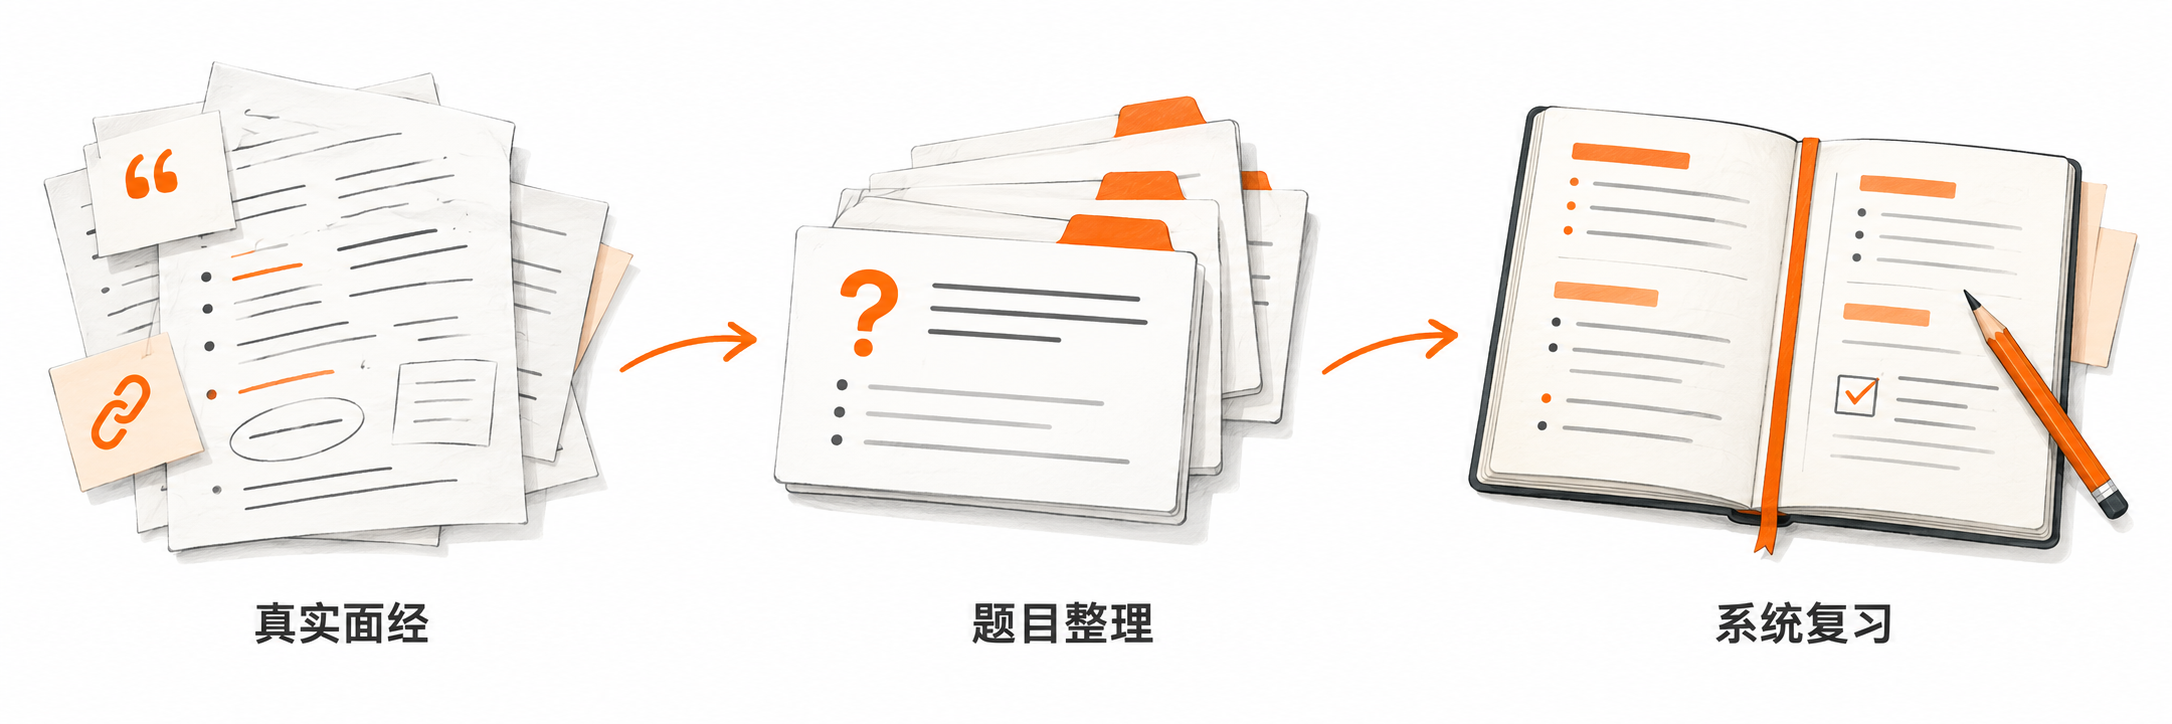
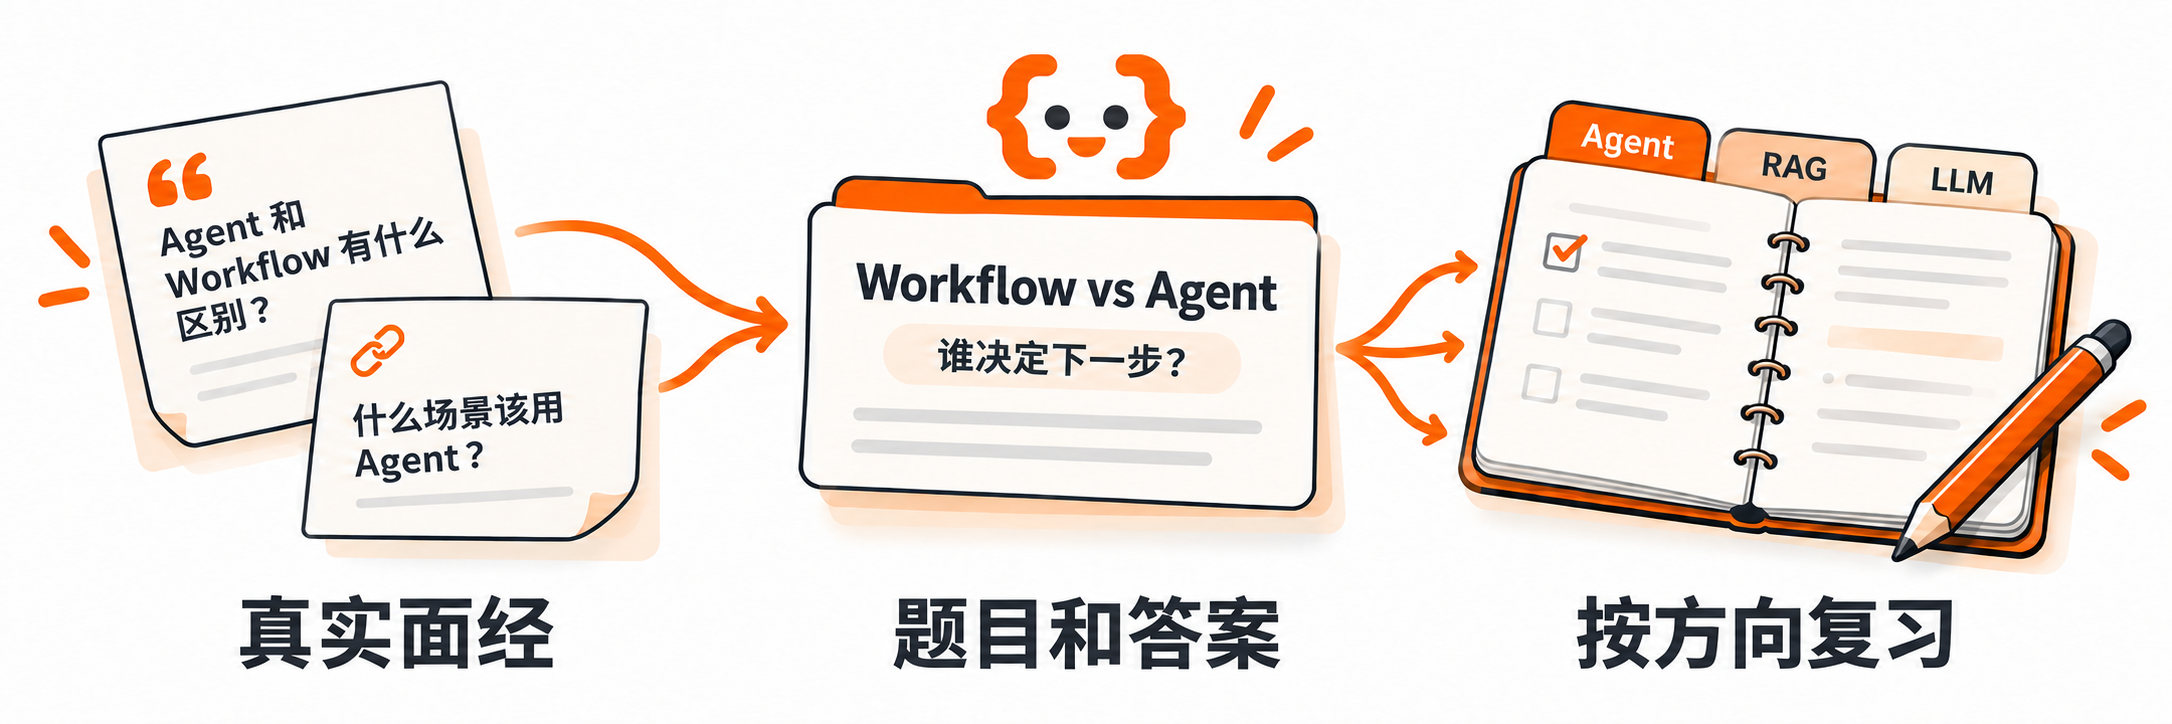
docs(readme): 突出真实面经亮点并更新项目插图
围绕真实提问与复习用途完善开头介绍，补充准备入口和配套教程。

为目录标题增加图标与稳定锚点，更新概念插图并移除旧截图。

diff --git a/README.md b/README.md
@@ -1,84 +1,76 @@
 <div align="center">
 
-# 面栈 MianStack
+# 🎯 面栈 MianStack｜免费开源的 AI 面试题库与真实面经
 
 ### 面试之前，先来面栈
 
-**你的 AI Agents 面试宝藏库**
+**你的 AI Agents 面试宝藏库：真面经、真问题、成体系，帮你把零散知识变成面试时说得清的答案。**
 
-真面经、真问题、成体系，帮你把零散知识变成面试时说得清的答案。
+聚焦 **AI Agent、LLM 应用、RAG、模型训练与 AI 工程**。
 
 <p>
   <a href="INDEX.md"><img alt="4,000+ 道面试题" src="https://img.shields.io/badge/面试题-4%2C000%2B-FF6000?style=flat-square"></a>
   <a href="indexes/interviews.md"><img alt="600+ 篇真实面经" src="https://img.shields.io/badge/真实面经-600%2B-FF6000?style=flat-square"></a>
+  <a href="INDEX.md#current-content"><img alt="9,600+ 次真实提问" src="https://img.shields.io/badge/真实提问-9%2C600%2B-FF6000?style=flat-square"></a>
   <a href="https://mianstack.com/company/"><img alt="150+ 家公司" src="https://img.shields.io/badge/公司-150%2B-FF6000?style=flat-square"></a>
-  <a href="#知识目录"><img alt="8 个知识方向" src="https://img.shields.io/badge/知识方向-8-2D333B?style=flat-square"></a>
+  <a href="#knowledge-directions"><img alt="8 个知识方向" src="https://img.shields.io/badge/知识方向-8-2D333B?style=flat-square"></a>
 </p>
 
-**[开始复习](https://mianstack.com/must-review/)** · [按公司找面经](https://mianstack.com/company/) · [浏览题库](INDEX.md) · [参与贡献](#参与贡献)
+**[开始复习](https://mianstack.com/must-review/)** · [按公司找面经](https://mianstack.com/company/) · [浏览题库](INDEX.md) · [简历与面试准备](https://mianstack.com/prepare/) · [配套实战教程](#project-learning) · [一起完善面栈](#contributing)
 
 </div>
 
-[![面栈：看真实面经、读面试题和参考答案、按知识方向复习](assets/readme/mianstack-overview-v2.png)](https://mianstack.com/)
+准备 AI 面试，最关心的就是：**目标岗位会问什么、先复习哪些题、项目被追问时怎么答。** 面栈从公开面经中整理真实提问，把分散在不同公司、岗位和轮次里的问题放进知识目录，让你有重点地复习。
 
-面栈是一个面向求职者的开源面试题库和答案库，重点覆盖 **AI Agent、LLM 应用、RAG、模型训练与 AI 工程**，同时保留这些岗位经常考查的软件工程、算法和项目问题。
+在 [mianstack.com](https://mianstack.com/)，你可以查真实面经、读题目和参考答案、标记复习进度，也可以准备简历、自我介绍和项目表达。**网站免费使用，题库开放阅读，源码和文档也在这里。**
 
-你可以在 [mianstack.com](https://mianstack.com/) 找题、筛选面经、记下复习情况，也可以直接在 GitHub 阅读题目和补充答案。具体有多少题、多少篇面经，见[题库总索引](INDEX.md)。
+[![面栈：看真实面经、读面试题和参考答案、按知识方向复习](assets/readme/mianstack-overview.png)](https://mianstack.com/)
 
-## 从这里开始
+## 🚀 从这里开始
 
-- **面试快到了**：[先看「面前必看」](https://mianstack.com/must-review/)，把答不好的题标出来，集中练习。
-- **准备某家公司**：[按公司找面经](https://mianstack.com/company/)，选你要投的岗位，看看一面、二面都问过什么。
-- **想补技术知识**：打开[知识目录](#知识目录)，按 Agent、RAG、模型训练等方向找题，复习自己不熟悉的部分。
+- **面试快到了**：[先过「面前必看」](https://mianstack.com/must-review/)，把各方向的核心题练一遍。
+- **想先练收录最多的题**：[打开网站题库](https://mianstack.com/question/)，默认按关联面经数量排序，先看反复出现在已收录面经中的问题。
+- **已经有目标公司**：[按公司找面经](https://mianstack.com/company/)，筛选岗位和面试轮次，看看同类岗位实际问过什么。
+- **想补某一块知识**：打开[知识目录](#knowledge-directions)，找到对应专题，集中补自己不熟悉的内容。
+- **简历和开场还没准备好**：[梳理简历与经历](https://mianstack.com/prepare/resume-and-experience/)，再[练习自我介绍](https://mianstack.com/prepare/self-introduction/)。
 - **继续上次复习**：[打开「我的复习」](https://mianstack.com/study/)，接着上次看，或者回看标为「待复习」的题。
 
-## 怎么用面栈准备面试
+## ✨ 面栈有什么不同
 
-### 按公司和岗位找面经
+- 🧾 **从真实面经整理题目，不靠 AI 凑题**：题库以牛客、小红书等公开面经中的真实提问为基础，保留面试官原本怎么问，再按知识点整理成题目；也补充有明确出处的公开题集。你能回到原始材料核对，知道问题从哪里来、是在什么情况下问的。
 
-公司页面把已收录的面经和题目放在一起，你可以按岗位、招聘类型和面试轮次筛选。看到某个问题，点开对应面经，就能查看当时还问了什么。
+- 🧭 **8 个知识方向，按专题快速查漏补缺**：模型、RAG、Agent、AI 工程、训练、软件工程、算法和综合面试分开整理，每个方向再按专题细分。想补检索、工具调用、模型微调或数据库，直接找到对应目录，顺着同一专题把相关题目练一遍。
 
-例如，介绍 RAG 项目时，面试官除了问流程，还可能继续问：为什么不用向量检索？文档切得太细有什么问题？怎么检查检索效果？[查看 RAG 方向的相关题目](indexes/rag.md)。
+- 🔥 **默认按收录面经数排序，先练反复出现的题**：关联面经越多的题，默认排得越靠前，方便先准备有更多真实提问记录的知识点。备考时间紧，直接从「面前必看」开始；核心题过一遍，再回到专题补薄弱项。
 
-### 同一个问题，不用反复翻面经
+- 🏷 **按专题、题型和难度筛题，还能回看原始问法**：题目按知识专题、题目类型和技术难度组织，方便按需要筛选。同一个问题在不同面经里怎么问，会放在同一道题下；题目旁能找到相关面经，点回去就能查看同场面试的前后提问。
 
-不同面经可能在问同一个问题，只是说法不一样。面栈把这些问法放在同一道题下，方便你一起看常见问法和参考答案。
+- 🏢 **面经保留作者和原帖，按公司、岗位直接找**：每篇面经保留作者与原始链接，并记录发布时间、公司、岗位、面试阶段和归档编号等信息。按公司、岗位、招聘类型和轮次筛选，既能看整理后的问题，也能顺着原帖核对完整经历。
 
-想了解某次面试的前后提问，点回对应面经即可。你既能按知识点复习，也能看到不同公司具体怎么问。
+- 💼 **从项目介绍到技术追问，项目题也能系统练**：题库覆盖项目背景、架构选择、个人贡献、难点排查和效果评估等问题。为什么这样设计、你具体做了什么、效果怎么验证，都有对应的练习方向。后续会继续补充围绕实际项目的面试题、参考答案和可运行源码，让项目题有代码可看、有过程可讲。
 
-### 先自己回答，再对照答案
+- 📚 **配套 ai-agents-from-zero，学完项目就练面试**：与 [AI 智能体实战教程](https://github.com/didilili/ai-agents-from-zero)一起使用：跟着教程学 RAG、Agent、LangChain、LangGraph，跑案例、做项目，再回面栈练对应知识点和项目追问。参考答案会结合教程内容和项目实践，讲清实现步骤、方案选择和常见追问。
 
-参考答案先回答问题，再解释原因、做法和常见追问。涉及不同方案时，会说明各自的优缺点和适用条件。
+- 📝 **简历、自我介绍、行为题和反问，一起准备**：除了刷技术题，还提供[简历与经历梳理、自我介绍、行为面试和反问指南](https://mianstack.com/prepare/)。项目经历怎么写进简历，开场的一分钟怎么介绍自己，遇到协作、困难和复盘类问题怎么回答，都有具体结构和示例可以跟着练。
 
-你可以先试着讲一遍，再对照答案看看漏了什么。最后用自己的项目举例，练习回答为什么这样设计、遇到问题怎么解决。
+- 📌 **收藏和复习标记，把时间花在没掌握的题上**：题目、面经和公司都能收藏，题目可以标为「待复习」或「已掌握」。打开「我的复习」，集中练还没掌握的题，回看收藏，或接着上次的位置继续读。收藏和复习记录保存在当前浏览器。
 
-### 记下不会的题，下次接着复习
+## 🔗 一道题怎样连接多篇真实面经
 
-在网站里，你可以收藏题目、面经和公司，把题目标为「待复习」或「已掌握」。下次打开「我的复习」，就能找到这些记录，也能接着上次读的位置继续看。
-
-复习记录保存在当前浏览器。
-
-## 以 Workflow 和 Agent 的区别为例
-
-下面两篇面经都问到了这个问题：
+以「Workflow 和 Agent 有什么区别」为例，下面两篇真实面经都问到了：
 
 - [恒生电子 · AI 开发工程师](https://mianstack.com/question/q-0140/)：“Agent 和 Workflow 的区别，分别适合什么场景？”
 - [阿里巴巴 · AI 应用研发工程师](https://mianstack.com/question/q-0140/)：“Workflow和自治Agent的区别是什么？什么场景更适合Workflow”
 
-在面栈里，这两种问法放在 **[Workflow 和 Agent 有什么区别？](questions/Q-0140.md)** 这道题下面。
+打开 **[Workflow 和 Agent 有什么区别？](questions/Q-0140.md)**，这两种原始问法和对应面经可以一起看，再对照参考答案准备：
 
 > **回答要点**：最大的区别是下一步由谁决定。Workflow 的步骤和分支先由代码规定；Agent 根据任务目标和执行结果，决定下一步怎么做。
 
-参考答案还解释了两者各适合什么情况，以及怎样一起使用。在网站上，这道题下面还列着相关面经和其他题目，可以继续查看。
-
 **[在网站看这道题](https://mianstack.com/question/q-0140/)** · [在 GitHub 看答案](questions/Q-0140.md)
 
-也可以看看：
+<a id="knowledge-directions"></a>
 
-- [RAG 从知识入库到在线问答的完整流程是什么？](questions/Q-0047.md)
-- [如何保证模型提供正确参数并可靠地调用工具？](questions/Q-0050.md)
-
-## 知识目录
+## 🧭 按知识方向复习
 
 除了 AI 技术，面试还会问数据库、算法和你做过的项目。下面把这些内容分开整理，方便你按需要复习。
 
@@ -95,7 +87,22 @@
 
 其他入口：[全部题目](INDEX.md) · [真实面经](indexes/interviews.md) · [公开题集](indexes/collections.md) · [简历、自我介绍与面试准备](https://mianstack.com/prepare/)
 
-## 参与贡献
+<a id="project-learning"></a>
+
+## 📚 配套教程与实战项目
+
+[ai-agents-from-zero](https://github.com/didilili/ai-agents-from-zero) 提供系统教程、可运行案例和实战项目。跟着教程把项目跑起来，再用面栈里的题检查自己是否理解了其中的原理和设计。
+
+可以从这两个实战项目开始：
+
+- **[电商问数](https://github.com/didilili/shopkeeper-agent)**：NL2SQL + LangGraph 实战，结合数据查询、流程设计、异常处理和方案选择练习项目面试。
+- **[深度研搜](https://github.com/didilili/deepsearch-agents)**：DeepAgents 多智能体实战，结合任务拆分、信息检索、工具调用和协作机制练习项目追问。
+
+练项目题时，重点讲清楚：**为什么这样选、自己负责了什么、效果怎么验证、遇到问题怎么解决。**
+
+<a id="contributing"></a>
+
+## 🤝 一起完善面栈
 
 欢迎一起完善面栈：
 
@@ -126,10 +133,12 @@ mianstack/
 
 </details>
 
-## 许可证
+## 📄 许可证
 
 面栈自己编写和整理的题目、参考答案、文档与代码采用 [MIT License](LICENSE)。
 
+第三方面经、引用和题集不会因为被收录就改用 MIT 许可；来源、署名及相关反馈见[贡献指南](CONTRIBUTING.md#sources-and-attribution)。
+
 ---
 
-如果面栈对你的备考有帮助，欢迎 **Star 收藏**，也欢迎分享给正在准备面试的朋友。
+**免费、开源、持续更新，陪你把下一场 AI 面试准备好。** 如果面栈对你有帮助，欢迎 **Star 收藏**，也欢迎分享给正在找工作的朋友。
